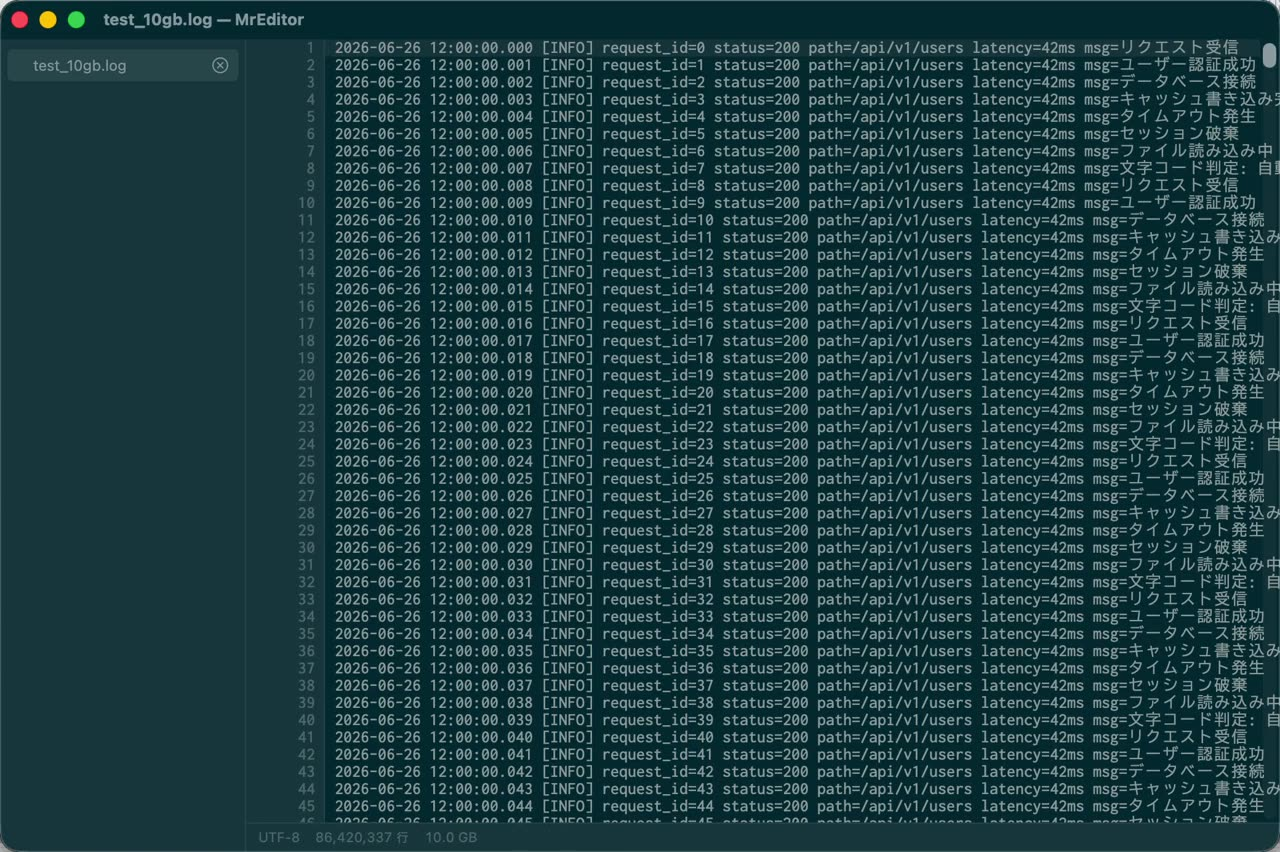
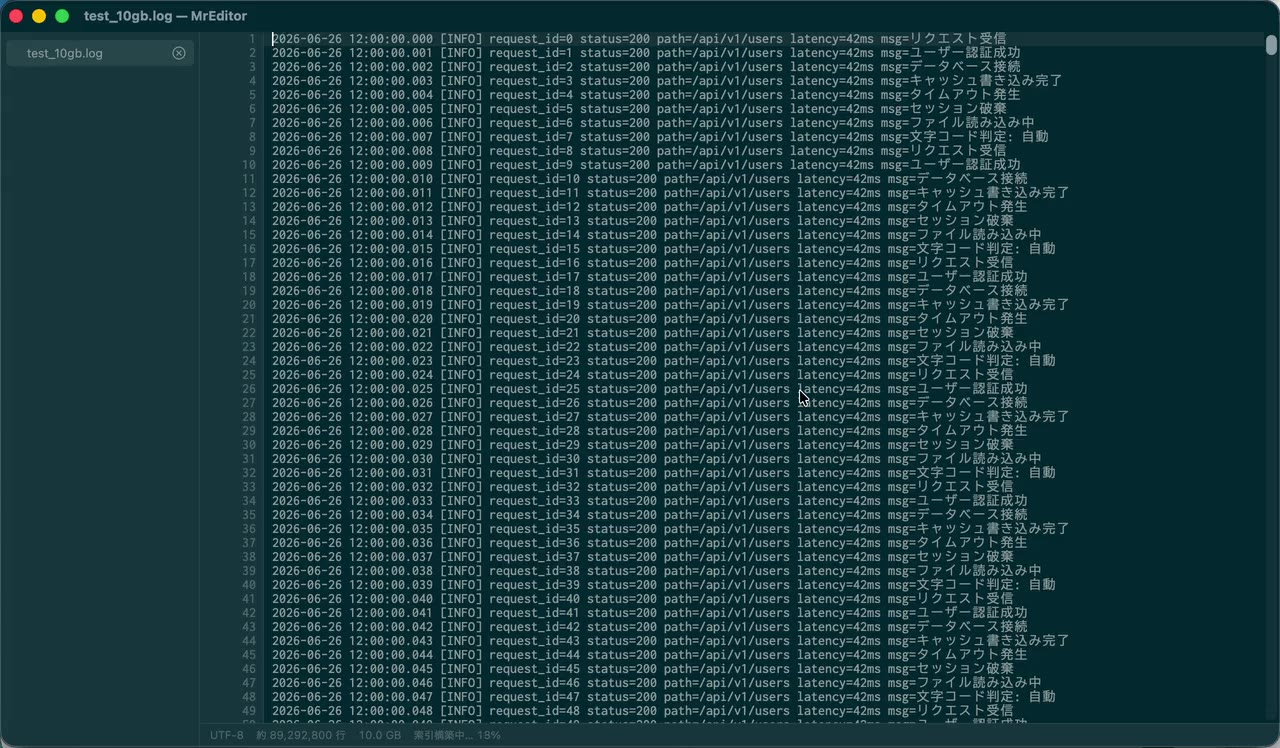
録画を撮り直す: カットなし・等倍の一発撮り 27 秒
これまでの録画は2場面のカットつなぎで、LP には「正直に書きます、つないでいます」
という言い訳を添えていた。索引の約9秒を隠すためのカットだったが、その9秒こそ
「表示が一度も止まらない」証明なので、隠す理由がなかった。

開く → 索引が走っている最中にスクロールと検索（索引95%で137,111件ヒット）→
索引完了で行数が概算から 86,420,337 に確定 → ⌘L で最終行へ。切っていない。

scripts/record_demo.sh で撮り直せる。CGEvent で .app を自動操作し screencapture -v
で撮るので、手の震えも誤クリックも入らず、再実行すれば同じ画になる。尺は台本が
吐く着地時刻から機械的に決める（勘で決めて2回、着地が切れた）。

diff --git a/scripts/demo_driver.swift b/scripts/demo_driver.swift
@@ -1,0 +1,196 @@
+// LP 用デモ録画の台本ドライバ。
+// 画面録画（screencapture -v）と並走し、CGEvent で .app を人手と同じように叩く。
+// 手の震えも誤クリックも入らないので、撮り直しは再実行するだけで同じ画になる。
+//
+//   swiftc -O scripts/demo_driver.swift -o <out>/demo_driver
+//   <out>/demo_driver place   … ウィンドウを録画枠にぴったり置く
+//   <out>/demo_driver act     … 台本を演じる（約30秒）
+//
+// 前提: アクセシビリティ権限（システム設定 > プライバシー > アクセシビリティ）。
+
+import Cocoa
+
+let logPath = "/Users/hitoshi/Git/MrEditor/testdata/test_10gb.log"
+
+// 録画枠 = メニューバーを除いた可視領域（1280x832 の画面で 0,29 から 1280x748）。
+let shot = CGRect(x: 0, y: 29, width: 1280, height: 748)
+
+// ---- CGEvent の下ごしらえ ------------------------------------------------
+
+let src = CGEventSource(stateID: .hidSystemState)!
+
+let codes: [Character: CGKeyCode] = [
+    "a": 0, "s": 1, "d": 2, "f": 3, "h": 4, "g": 5, "z": 6, "x": 7, "c": 8, "v": 9,
+    "b": 11, "q": 12, "w": 13, "e": 14, "r": 15, "y": 16, "t": 17,
+    "1": 18, "2": 19, "3": 20, "4": 21, "6": 22, "5": 23, "9": 25, "7": 26, "8": 28, "0": 29,
+    "o": 31, "u": 32, "i": 34, "p": 35, "l": 37, "j": 38, "k": 40, "n": 45, "m": 46,
+]
+let kReturn: CGKeyCode = 36
+let kEscape: CGKeyCode = 53
+
+func tap(_ code: CGKeyCode, _ flags: CGEventFlags = []) {
+    for down in [true, false] {
+        let e = CGEvent(keyboardEventSource: src, virtualKey: code, keyDown: down)!
+        e.flags = flags
+        e.post(tap: .cghidEventTap)
+        usleep(12_000)
+    }
+}
+
+func tap(_ c: Character, _ flags: CGEventFlags = []) {
+    guard let code = codes[c] else { return }
+    tap(code, flags)
+}
+
+/// テキストフィールドへの流し込みは、すべてこれで行う。
+///
+/// キーを1つずつ叩く方式は2つの理由で使えない:
+///   - virtualKey:0 の合成 Unicode イベントは NSOpenPanel が無視する
+///   - 実キーコードで数字を打つと日本語 IME に食われ、全角「８６，４２０，３３７」になる。
+///     すると Return は変換確定に消費されてボタンに届かず、Int() のパースも落ちて跳ばない。
+/// 貼り付けは IME を素通りするので、どちらの罠も踏まない。
+func paste(_ s: String) {
+    let pb = NSPasteboard.general
+    pb.clearContents()
+    pb.setString(s, forType: .string)
+    usleep(120_000)          // 貼り付け前にペーストボードが確定するのを待つ
+    tap("a", .maskCommand)   // 既存の値（前回の履歴）を選択して置き換える
+    usleep(80_000)
+    tap("v", .maskCommand)
+}
+
+/// 撮影でユーザのクリップボードを壊さないための退避と復元。
+var savedClipboard: String?
+func saveClipboard()    { savedClipboard = NSPasteboard.general.string(forType: .string) }
+func restoreClipboard() {
+    guard let s = savedClipboard else { return }
+    let pb = NSPasteboard.general
+    pb.clearContents()
+    pb.setString(s, forType: .string)
+}
+
+func moveMouse(_ p: CGPoint) {
+    CGEvent(mouseEventSource: src, mouseType: .mouseMoved, mouseCursorPosition: p, mouseButton: .left)?
+        .post(tap: .cghidEventTap)
+}
+
+/// 慣性なしの素直なホイール。lines 単位だと粗いので pixel 単位で流す。
+func scroll(lines: Int32, steps: Int, gap: useconds_t = 16_000) {
+    for _ in 0..<steps {
+        let e = CGEvent(scrollWheelEvent2Source: src, units: .pixel,
+                        wheelCount: 1, wheel1: -lines, wheel2: 0, wheel3: 0)!
+        e.post(tap: .cghidEventTap)
+        usleep(gap)
+    }
+}
+
+func sleep(_ sec: Double) { usleep(useconds_t(sec * 1_000_000)) }
+
+// ---- ウィンドウを録画枠に合わせる ----------------------------------------
+
+func app() -> NSRunningApplication? {
+    NSRunningApplication.runningApplications(withBundleIdentifier: "com.aaedit.MrEditor").first
+}
+
+func placeWindow() {
+    guard let a = app() else { fputs("MrEditor が起動していない\n", stderr); exit(1) }
+    a.activate(options: [])
+    sleep(0.6)
+
+    let ax = AXUIElementCreateApplication(a.processIdentifier)
+    var windows: AnyObject?
+    AXUIElementCopyAttributeValue(ax, kAXWindowsAttribute as CFString, &windows)
+    guard let list = windows as? [AXUIElement], let w = list.first else {
+        fputs("ウィンドウが取れない（アクセシビリティ権限は？）\n", stderr); exit(1)
+    }
+    var pos = shot.origin
+    var size = shot.size
+    let posV = AXValueCreate(.cgPoint, &pos)!
+    let sizeV = AXValueCreate(.cgSize, &size)!
+    AXUIElementSetAttributeValue(w, kAXPositionAttribute as CFString, posV)
+    AXUIElementSetAttributeValue(w, kAXSizeAttribute as CFString, sizeV)
+    print("窓を \(Int(shot.width))x\(Int(shot.height)) @ (\(Int(shot.minX)),\(Int(shot.minY))) に設置")
+}
+
+// ---- 台本 ----------------------------------------------------------------
+//
+// カットなし・等倍の一発撮り。索引の約9秒を隠さず、その間に読む・検索するのを見せる。
+// 「止まらない」ことの証明なので、ここを早送りしたら意味が消える。
+
+/// 10.00 GB を開くところまで。台本と probe で共有する。
+func openTheLog() {
+    tap("o", .maskCommand);               sleep(1.2)   // 開くダイアログ
+    tap("g", [.maskCommand, .maskShift]); sleep(0.9)   // パス指定シート
+    paste(logPath);                       sleep(0.7)
+    tap(kReturn);                         sleep(1.0)   // シートを閉じてファイルを選択
+    tap(kReturn)                                       // ← ここから 10.00 GB が開く
+}
+
+func act() {
+    guard let a = app() else { exit(1) }
+    saveClipboard()
+    defer { restoreClipboard() }
+    let t0 = Date()
+    func elapsed() -> Double { Date().timeIntervalSince(t0) }
+
+    a.activate(options: [])
+    sleep(1.4)                                   // 空のエディタ
+
+    openTheLog()
+    sleep(2.4)                                   // 描画された瞬間を見せる（実測 65〜83ms）
+
+    // 索引が背景で走っている最中に、普通に読む
+    moveMouse(CGPoint(x: 800, y: 420)); sleep(0.3)
+    scroll(lines: 90, steps: 55)                 // 約1秒、指なりのスクロール
+    sleep(0.6)
+    scroll(lines: 140, steps: 70)
+    sleep(1.0)
+
+    // 索引中でも検索できる
+    tap("f", .maskCommand);            sleep(0.8)
+    paste("タイムアウト発生");           sleep(0.7)
+    tap(kReturn);                      sleep(1.2)
+    tap("g", .maskCommand);            sleep(0.9)
+    tap("g", .maskCommand);            sleep(0.9)
+    tap("g", .maskCommand);            sleep(1.0)
+    tap(kEscape);                      sleep(0.8)
+
+    scroll(lines: 120, steps: 60)
+    sleep(1.2)
+
+    // 索引の完了を待つ。ステータスバーの行数が「約 89,292,800 行」から正確な 86,420,337 に収束する。
+    // 10GB で実測 約10秒（開いてから）。ここまでで既に約15秒経っているので、余裕分だけ待つ。
+    sleep(3.0)
+
+    // 最後の行へ。索引が終わっているので 0.1ms で着く。
+    tap("l", .maskCommand);            sleep(1.0)
+    paste("86420337");                 sleep(0.9)
+    tap(kReturn)
+    // 尺は勘で決めない。着地の瞬間を秒で吐き、切り出しはこの値に従わせる。
+    print("JUMP_AT \(String(format: "%.2f", elapsed()))")
+    sleep(3.0)                                   // 着地を見せて終わり
+    print("END_AT \(String(format: "%.2f", elapsed()))")
+}
+
+/// 録画せずに「開く」だけ演じる。台本が本当にファイルを開けるかの確認用。
+func probe() {
+    guard let a = app() else { exit(1) }
+    saveClipboard()
+    defer { restoreClipboard() }
+    a.activate(options: [])
+    sleep(1.0)
+    openTheLog()
+    sleep(3.0)
+    print("probe 完了（この時点で 10GB が開いているはず）")
+}
+
+// ---- entry ---------------------------------------------------------------
+
+switch CommandLine.arguments.dropFirst().first {
+case "place": placeWindow()
+case "act":   act()
+case "probe": probe()
+default:
+    fputs("usage: demo_driver place|act|probe\n", stderr)
+    exit(2)
+}